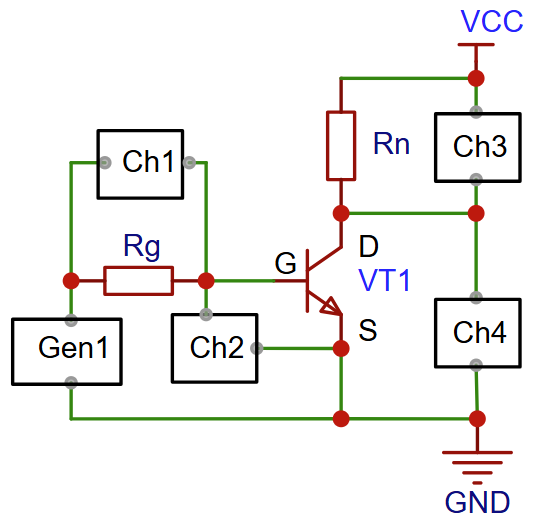
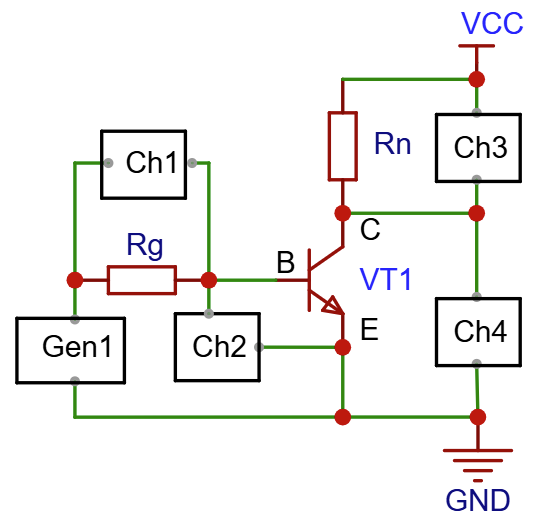
261114

Changed region(s): [[0.0, 0.0, 0.9869, 0.9903]]

diff --git a/docs/source/electronics/loadbipolar/loadbipolar.rst b/docs/source/electronics/loadbipolar/loadbipolar.rst
@@ -6,7 +6,7 @@
 Цель и задачи
 -------------
 
-**Цель:** Изучить свойства Биполярного транзистора:
+**Цель:** Изучить свойства биполярного транзистора при управлении нагрузкой в режиме ключа.
 
 #. Изучить переходные процессы при включении и выключении нагрузки.
 #. Изучить влияние частоты переключения на работу схемы.
@@ -16,32 +16,149 @@
 Краткие сведения
 ----------------
 
-Кратко опиши принципа действия Биполярного транзистора.
-Перечисли преимущества и недостатки.
-Перечисли основные схемы подключения.
+Биполярный транзистор рассмотрен в работе :ref:`rst_electronics_bipolar_bipolar`
 
-Исследуемый компонент
----------------------
+Для управления нагрузкой используют два основных состояния:
 
-..
-    .. figure:: images/contacts.png
-       :width: 25%
-       :align: center
+- **Отсечка:** ток базы практически отсутствует, транзистор закрыт.
+  Ток нагрузки ограничен токами утечки.
 
-       Схема...
+- **Насыщение:** ток базы достаточен для заданного тока нагрузки,
+  транзистор открыт, а падение напряжения на переходе коллектор-эмиттер мало.
 
-Схема и оборудование
---------------------
+Между этими состояниями транзистор проходит через **активный режим**,
+в котором приближённо выполняется :math:`I_C = h_{FE} I_B`.
 
-Схема подключения
-~~~~~~~~~~~~~~~~~
+Напряжение база-эмиттер :math:`U_{BE}` у открытого (в состоянии насыщения)
+кремниевого транзистора обычно составляет примерно 0,7–0,9 В.
 
+Напряжение коллектор–эмиттер в насыщении около 0,1–0,3 В.
 
+Ток базы необходимо ограничивать резистором или специальным драйвером.
+
+Преимущества ключа на биполярном транзисторе:
+
+- небольшие размеры и отсутствие механического износа;
+- высокая скорость переключения по сравнению с электромагнитным реле;
+- возможность управления от микроконтроллера, благодаря малому управляющему току;
+- возможность применения ШИМ;
+- простая схема ключа для небольшой нагрузки.
+
+Недостатки ключа на биполярном транзисторе:
+
+- ток управления нужен всё время, пока ключ включён;
+- напряжение открытого ключа (переход коллектор-эмиттер 0,1–0,3 В) создаёт потери мощности;
+- накопление заряда при насыщении задерживает выключение;
+- гальваническая развязка отсутствует;
+- невысокие допустимые ток и напряжение;
+- для индуктивной нагрузки требуется ограничение выброса напряжения.
+
+Основной схемой подключения биполярного транзистора в режиме ключа является схема **с общим эмиттером**.
+
+Схема подключения транзистора n-p-n структуры в качестве ключа:
+
+.. figure:: images/bipolar_002.png
+   :width: 50%
+   :align: center
+
+|
+
+Схема подключения транзистора p-n-p структуры в качестве ключа:
+
+.. figure:: images/loadbipolar_001.png
+   :width: 50%
+   :align: center
+
+У ключа на транзисторе p-n-p структуры есть существенное ограничение.
+Напряжение питания нагрузки должно совпадать с напряжением питания микроконтроллера (например, 3.3 В или 5 В).
+
+Исследуемый элемент
+-------------------
+
+Биполярный транзистор **2N5551**, n-p-n структуры, в корпусе TO-92.
+
+.. figure:: images/loadbipolar_003.png
+   :width: 20%
+   :align: center
+
+|
+
+Основные параметры по `Документация onsemi на 2N5551`_:
+
+- предельно допустимое напряжение коллектор-эмиттер: 160 В;
+- предельно допустимый постоянный ток коллектора: 600 мА;
+- :math:`h_{FE} = 80...250`;
+
+Описание опыта
+--------------
+
+Используется n-p-n ключ с общим эмиттером в нижнем плече.
+
+.. figure:: images/loadbipolar_002.png
+   :width: 60%
+   :align: center
+
+- **VT1** — исследуемый транзистор 2N5551.
+- **Rn** — нагрузка 100 Ом, мощность не менее 0,5 Вт.
+- **Rb** — ограничивающий резистор базы 680 Ом, 0,125 Вт или больше.
+- **Gen** — генератор прямоугольных импульсов 0...5 В без отрицательного уровня.
+- **VCC** — стабилизированные 5 В.
+
+Сопротивление :math:`R_{BE}` в схеме не используется.
+Его роль выполняет осциллограф.
 
 Расчёт и ожидаемые результаты
 -----------------------------
 
+Расчёт тока базы и нагрузки
+~~~~~~~~~~~~~~~~~~~~~~~~~~~
 
+Исходные значения:
+
+- :math:`U_{VCC} = 5` В
+- :math:`R_n = 100` Ом
+- :math:`U_{CE} = 0{,}2` В.
+- :math:`R_{BE} = 10 КОм`
+- :math:`U_{BE} = 0{,}8` В.
+- :math:`\beta = I_C/I_B = 10` - Коэффициент передачи тока
+  (для уверенного насыщения обычно берут ток базы примерно в 10 раз меньше тока коллектора)
+
+Сначала рассчитаем ток коллектора:
+
+.. math::
+
+   I_C = \frac{5-0{,}2}{100} = 0{,}048\ \text{А} = 48\ \text{мА}.
+
+Далее, рассчитаем ток базы:
+
+.. math::
+
+   I_{B} = \frac{48}{10} = 4{,}8\ \text{мА}
+
+Теперь можно рассчитать сопротивление базы:
+
+.. math::
+
+   R_{B} = \frac{U_{VCC}-U_{BE}}
+                    {I_{B}+U_{BE}/R_{BE}}
+              = \frac{5-0{,}8}{0{,}0048+0{,}8/10000}
+              \approx 861\ \text{Ом}.
+
+Выбираем ближайшее значение сопротивления :math:`R_{BE} = 680 Ом`
+
+Ожидаемые переходные процессы
+~~~~~~~~~~~~~~~~~~~~~~~~~~~~~
+
+При низком уровне Gen база находится около GND, транзистор закрыт.
+Напряжение коллектор-эмиттер близко к 5 В, ток и напряжение на Rn близки к нулю.
+
+После появления высокого уровня на базе :math:`U_{CE}` уменьшается,
+а ток нагрузки увеличивается. В насыщении на нагрузке ожидается примерно 4,8 В.
+На переходе одновременно существуют ток и напряжение, что создаёт потери.
+
+При возвращении Gen к нулю ток коллектора падает, а :math:`U_{CE}` повышается к напряжению питания.
+
+С ростом частоты переходные интервалы занимают большую долю периода.
 
 Лабораторная работа
 -------------------
@@ -51,7 +168,28 @@
 Выводы и открытые вопросы
 -------------------------
 
+Из принципа работы и предварительного расчёта следуют выводы:
 
+#. Биполярный транзистор позволяет управлять нагрузкой без механических контактов,
+   но требует тока базы в течение всего времени включения.
+#. Включённый ключ имеет остаточное напряжение, поэтому потери в силовой цепи
+   определяются произведением :math:`U_{CE} I_C`, а не только условным сопротивлением.
+#. Для маломощной нагрузки потери управления могут превышать потери
+   в цепи коллектор-эмиттер. В предложенном примере это примерно 30,9 и 9,6 мВт
+   при постоянно включённом ключе.
+#. Увеличение тока базы помогает получить насыщение, но требует большей
+   мощности управления и может замедлять выключение.
+#. Практический диапазон частот зависит от транзистора, схемы управления,
+   нагрузки и допустимых потерь. Он требует экспериментальной проверки.
+
+После измерений необходимо ответить на вопросы:
+
+- При каком токе базы достигается достаточно малое :math:`U_{CE}`?
+- На какой частоте задержка выключения заметно меняет заполнение тока нагрузки?
+- Как изменяются энергия одного переключения и средние потери с частотой?
+- Какой RB даёт приемлемое сочетание мощности управления и потерь ключа?
+- Достаточно ли прямого управления от выбранного микроконтроллера?
+- Как результаты сопоставляются с электромагнитным реле при одинаковой нагрузке?
 
 Ссылки
 ------
@@ -59,3 +197,10 @@
 #. `Google`_
 
 .. _Google: https://www.Google.com
+
+2. :ref:`rst_electronics_bipolar_bipolar` — предыдущая работа с 2N5551.
+#. :ref:`rst_electronics_load_load` — общая постановка исследования.
+#. :ref:`rst_electronics_loademrelay_loademrelay` — управление нагрузкой через реле.
+#. `Документация onsemi на 2N5551`_
+
+.. _Документация onsemi на 2N5551: https://www.onsemi.com/pdf/datasheet/2n5551t-d.pdf

diff --git a/docs/source/electronics/bipolar/bipolar.rst b/docs/source/electronics/bipolar/bipolar.rst
@@ -48,28 +48,49 @@
 Введение
 --------
 
+Биполярный транзистор — полупроводниковый прибор с тремя выводами:
+
+- базой (Б, B)
+- коллектором (К, C)
+- эмиттером (Э, E).
+
 Обозначение биполярного транзистор **n-p-n** структуры на принципиальных схемах:
 
 .. figure:: images/bipolar_001.png
    :width: 100px
    :align: center
 
-- Коллектор / Drain (-)
-- База / Gate (+) (управляющее напряжение)
-- Эмиттер / Source (+)
+- Коллектор / Collector (+)
+- База / Base (+) (управляющее напряжение)
+- Эмиттер / Emitter (GND)
 
-Сема подключения транзистора в качестве ключа:
+Обозначение биполярного транзистор **p-n-p** структуры на принципиальных схемах:
+
+.. figure:: images/bipolar_004.png
+   :width: 100px
+   :align: center
+
+- Коллектор / Collector (GND)
+- База / Base (GND) (управляющее напряжение)
+- Эмиттер / Emitter (+)
+
+Схема подключения транзистора n-p-n структуры в качестве ключа:
 
 .. figure:: images/bipolar_002.png
    :width: 350px
    :align: center
 
-- **Rg** - сопротивление, ограничивающее ток "база-эмиттер" (G-S).
+   Транзисторный ключ на транзисторе n-p-n структуры
 
-- **R2** - притягивающий резистор (R2 >> Rg). Он подает (-) на переход "база-эмиттер" (G-S),
+- **Rg** - сопротивление, ограничивающее ток "база-эмиттер".
+
+- **R1** - притягивающий резистор (R1 >> Rg). Он подает (-) на переход "база-эмиттер",
   чтобы транзистор не открывался от помех, наведенных на висящий провод выключателя.
   Для биполярных транзисторов не так актуально, как для полевых транзисторов,
-  т.к. транзистор открывается при наличии тока.
+  т.к. транзистор биполярный транзистор открывается при наличии тока,
+  а не напряжения, как полевой транзистор.
+
+- **Rn** - сопротивление нагрузки.
 
 Переход **"коллектор-эмиттер"** изначально имеет большое сопротивление.
 При подаче напряжения на переход **"база-эмиттер"**, через этот переход начинает протекать ток
@@ -84,7 +105,7 @@
 
 .. note::
     Недостатком использования биполярных транзисторов в качестве ключей является большая потеря мощности на транзисторе
-    за счет большого тока "база-эмиттер".
+    за счет тока "база-эмиттер".
 
 .. important::
     Для насыщения перехода "база-эмиттер" нужно определенное значение **тока!**, а не напряжения,
@@ -93,7 +114,7 @@
 Описание опыта
 --------------
 
-Сема подключения транзистора приведена на рисунке ниже.
+Сема подключения транзистора n-p-n структуры приведена на рисунке ниже.
 
 .. figure:: images/bipolar_003.png
    :width: 350px
@@ -102,8 +123,8 @@
 - **VCC** - Uкэ (в закрытом состоянии) = 8.5В
 - **VT1** - 2N5551
 - **U(Gen1)** - 0В - +5В (треугольник) подается от генератора Gen1 с частотой 500 Гц
-- **Ids** = 75 мА (произвольное значение, но не более Iкэ макс)
-- **Ugs** = 0.7 В (теоретическое значение для кремниевых транзисторов)
+- **Iкэ** = 75 мА (произвольное значение, но не более Iкэ макс)
+- **Uбэ** = 0.7 В (теоретическое значение для кремниевых транзисторов)
 - **hFE** - 290 (определено с помощью измерительного прибора). :math:`hFE=Iкэ / Iбэ`
 
 Расчетные значения:
@@ -341,7 +362,7 @@
 Выводы
 ------
 
-#. Напряжение "база-эмиттер" (Ugs), при котором открывается переход "коллектор-эмиттер" равно 0.7В
+#. Напряжение "база-эмиттер", при котором открывается переход "коллектор-эмиттер" равно 0.7В
 
 #. Падение напряжения на переходе "база-эмиттер" не изменяется, когда переход открыт.
    Т.е. сопротивление открытого перехода "база-эмиттер" изменяется в зависимости от тока.
@@ -355,7 +376,7 @@
 #. При закрытом переходе "база-эмиттер", падение напряжения на переходе "коллектор-эмиттер"
    будет равно напряжению источника питания (~8.5В).
 
-#. При превышении напряжения "база-эмиттер" (Ugs) 0.7В, сопротивление перехода "коллектор-эмиттер" будет снижаться,
+#. При превышении напряжения "база-эмиттер" 0.7В, сопротивление перехода "коллектор-эмиттер" будет снижаться,
    падение напряжения на переходе "коллектор-эмиттер" будет стремиться к нулю.
 
 #. Напряжение напряжения на переходе "коллектор-эмиттер" изменяется линейно,

diff --git a/docs/source/electronics/loademrelay/loademrelay.rst b/docs/source/electronics/loademrelay/loademrelay.rst
@@ -41,9 +41,10 @@
 - сравнительно большие размеры;
 - возникновение помех при переключении;
 - высокое энергопотребление катушки.
+- дополнительное энергопотребление управляющей схемы.
 
-Исследуемый компонент
----------------------
+Исследуемый элемент
+-------------------
 
 Релейный модуль в сборе на плате с управлением биполярным транзистором
 p-n-p типа и электромеханическим реле Tongling 5VDC JQC-3FF-S-Z.
@@ -254,7 +255,7 @@ p-n-p типа и электромеханическим реле Tongling 5VDC 
 
 .. _Google: https://www.Google.com
 
-#. `ElectronicsClub, Relay | The principle of operation of the relay in the examples`_
+2. `ElectronicsClub, Relay | The principle of operation of the relay in the examples`_
 #. `EasyEDA`_
 #. `ElectronicsClub, Inductors from A to Z How They Really Work`_
 

diff --git a/docs/source/electronics/loadtemplate/loadtemplate.rst b/docs/source/electronics/loadtemplate/loadtemplate.rst
@@ -20,8 +20,8 @@
 Перечисли преимущества и недостатки.
 Перечисли основные схемы подключения.
 
-Исследуемый компонент
----------------------
+Исследуемый элемент
+-------------------
 
 ..
     .. figure:: images/contacts.png
@@ -30,13 +30,15 @@
 
        Схема...
 
-Схема и оборудование
---------------------
+Описание опыта
+--------------
 
-Схема подключения
-~~~~~~~~~~~~~~~~~
+..
+    .. figure:: images/contacts.png
+       :width: 25%
+       :align: center
 
-
+       Схема...
 
 Расчёт и ожидаемые результаты
 -----------------------------
